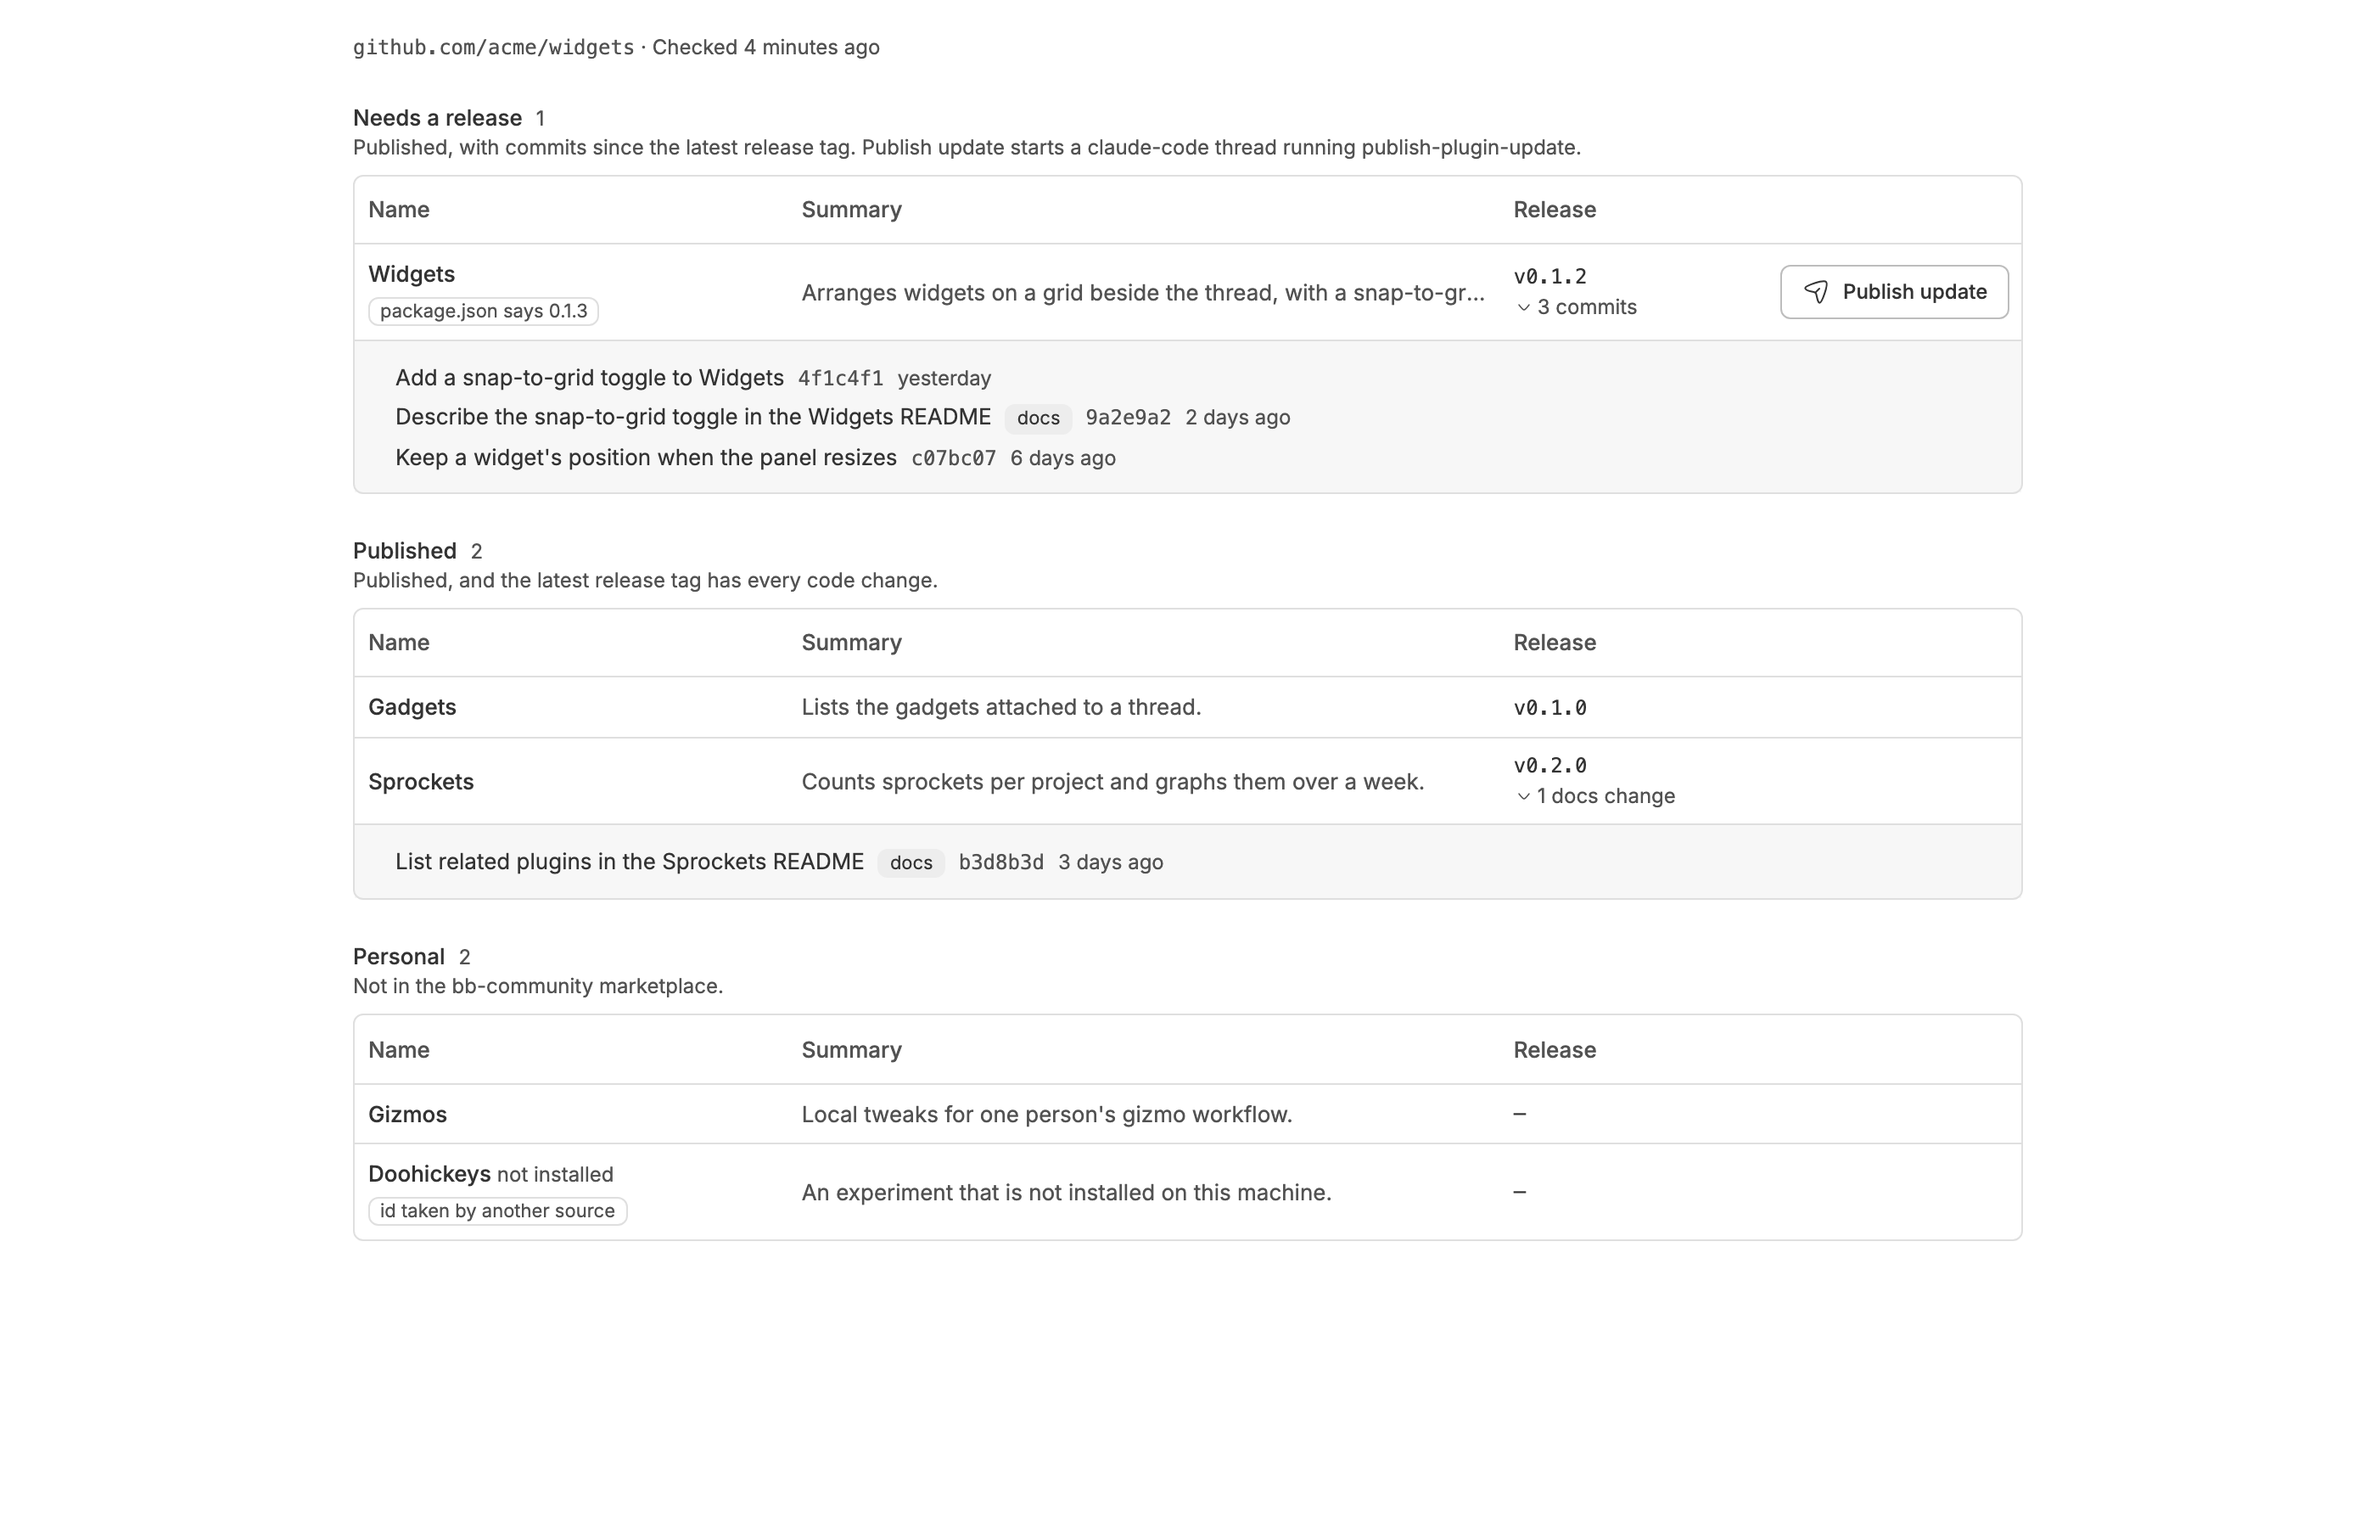
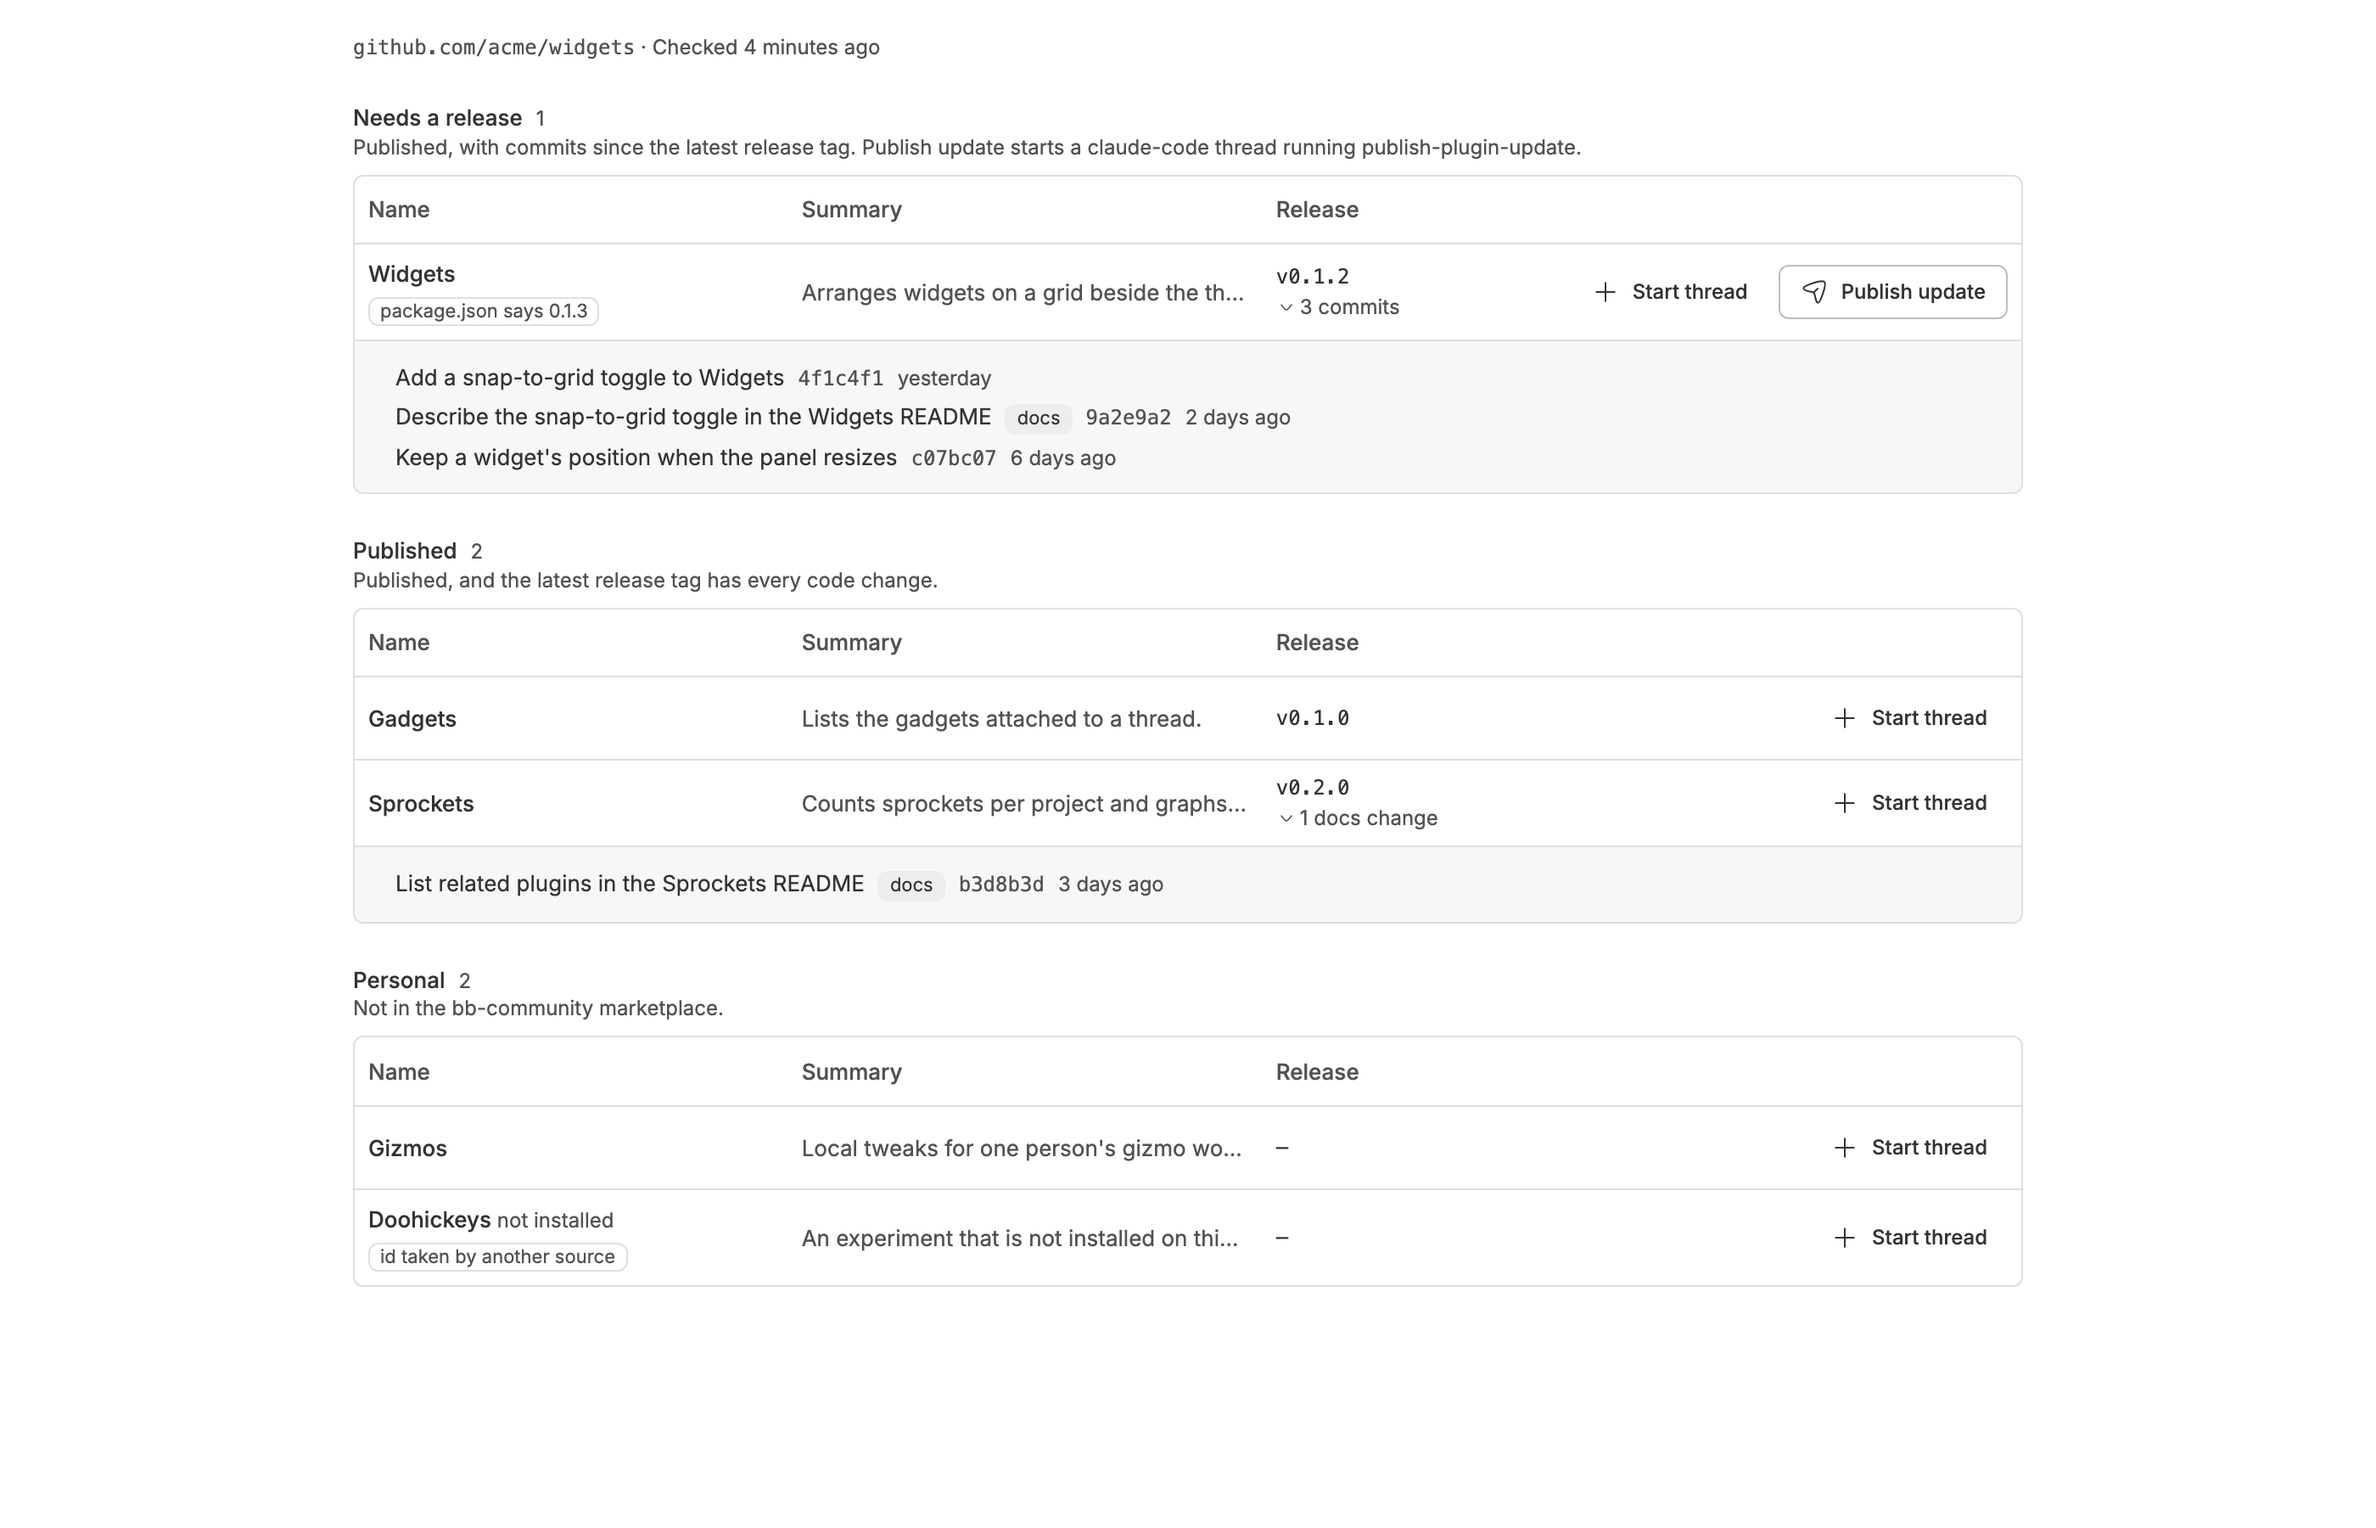
c5fadd5 Start a thread on any plugin from Plugin Shelf
danielbachhuber/bb-plugins@c5fadd583566e9de15ef1e99ea5deae139ff27a5

diff --git a/README.md b/README.md
@@ -13,7 +13,7 @@ small history while the visual history is still available.
 | [Dynamic UI](dynamic-ui/README.md) | Lets a skill show its results as a list above the thread's composer, each item opening in the side panel with its details and buttons: send a reply to the thread, open a new thread, run a confirmed command, or open a link. | 37 stories |
 | [GitHub Context](gh-context/README.md) | A banner above the composer showing the thread's pull request and its reviewers, the GitHub issues it works on, its changes, and a Harvest timer, in place of bb's own. | 5 stories |
 | [Now](now/README.md) | One list of what needs doing now, from Todoist and your Gmail inbox, with GitHub notifications gathered per pull request or issue, showing each pull request's reviewers, and Google Docs comments per document. | 10 stories |
-| [Plugin Shelf](plugin-shelf/README.md) | Lists the plugins in your bb-plugins checkout as published and current, published with commits not yet released (with those commits), or personal, on a My plugins page in bb's Plugins screen, and starts a thread to publish an update. | 4 stories |
+| [Plugin Shelf](plugin-shelf/README.md) | Lists the plugins in your bb-plugins checkout as published and current, published with commits not yet released (with those commits), or personal, on a My plugins page in bb's Plugins screen, with a button on each to start a thread on it and one to publish an update where one is due. | 4 stories |
 | [Review Sweep](review-sweep/README.md) | Open pull requests waiting on a review from you, oldest request first. | 3 stories |
 | [Thread Overview](thread-overview/README.md) | A band under each thread's header saying what the thread is for, what has been done so far, and which step it is on, written by the agent as it works and edited by you in place. | 1 story |
 | [Tokenomics](tokenomics/README.md) | Graphs how many tokens your threads used over the past day, three days, or week, lists each thread's share, and puts a sparkline of each thread's token use over time in its header that opens a summary of which of your messages used the most. | 10 stories |

diff --git a/plugin-shelf/README.md b/plugin-shelf/README.md
@@ -2,7 +2,7 @@
 
 # Plugin Shelf
 
-Lists the plugins in your bb-plugins checkout as published and current, published with commits not yet released (with those commits), or personal, on a My plugins page in bb's Plugins screen, and starts a thread to publish an update.
+Lists the plugins in your bb-plugins checkout as published and current, published with commits not yet released (with those commits), or personal, on a My plugins page in bb's Plugins screen, with a button on each to start a thread on it and one to publish an update where one is due.
 
 Source: [`bb-plugin-plugin-shelf`](https://github.com/danielbachhuber/bb-plugins/tree/main/bb-plugin-plugin-shelf)
 
@@ -10,7 +10,7 @@ Source: [`bb-plugin-plugin-shelf`](https://github.com/danielbachhuber/bb-plugins
 
 ### Mixed
 
-Every plugin in a checkout, grouped by whether it needs a release. Widgets has three commits since its last release tag, and its package.json was bumped without a tag.
+Every plugin in a checkout, grouped by whether it needs a release, each with a Start thread button. Widgets has three commits since its last release tag, and its package.json was bumped without a tag.
 
 ![Mixed](shelf--mixed.png)
 
